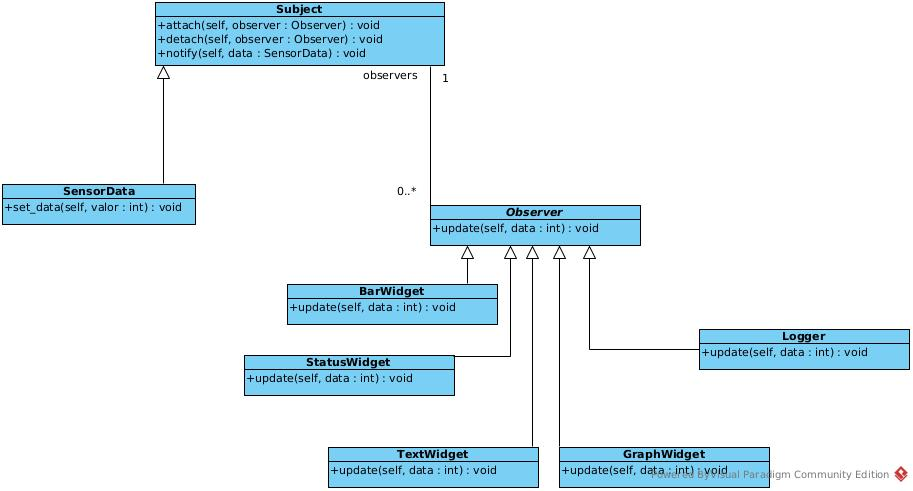
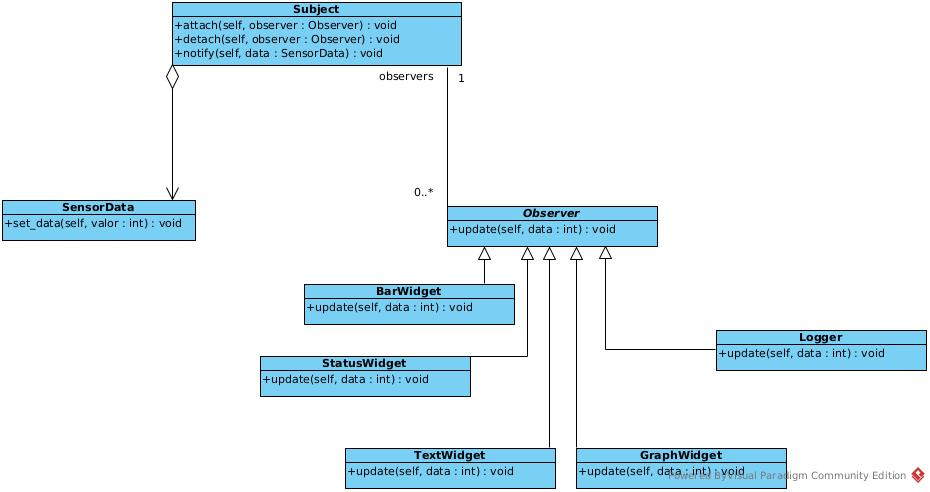
feat: implementar métodos de notificação e gerenciamento de observadores na classe SensorData

Changed region(s): [[0.1533, 0.0, 1.0, 1.0], [0.0, 0.3666, 0.2147, 0.4888], [0.644, 0.6721, 1.0, 0.7637]]

diff --git a/projeto-sistemas/padroes-projeto/observer/ExemploObserver/main.py b/projeto-sistemas/padroes-projeto/observer/ExemploObserver/main.py
@@ -1,20 +1,29 @@
 # main.py
 import tkinter as tk
-from subject import Subject
 from data.simulate_data import simular_dados
 from utils.logger import Logger
 from gui.dashboard import GraphWidget, TextWidget, StatusWidget, BarWidget
 
-# ConcreteSubject com estado real
-class SensorData(Subject):
+
+class SensorData:
     def __init__(self):
-        super().__init__()
+        from subject import Subject
+        self._subject = Subject()
         self._valor = 0
+
+    def attach(self, observer):
+        self._subject.attach(observer)
+
+    def detach(self, observer):
+        self._subject.detach(observer)
+
+    def notify(self):
+        self._subject.notify(self._valor)
 
     def set_data(self, valor):
         self._valor = valor
         print(f"[Sensor] Novo valor: {valor}")
-        self.notify(valor)
+        self.notify()
 
 # Interface principal
 def main():
@@ -35,9 +44,14 @@ def main():
     sensor.attach(text)
     sensor.attach(status)
 
+    # logger também pode ser adicionado aqui se quiser
+    # logger = Logger()
+    # sensor.attach(logger)
+
     simular_dados(sensor)
     root.mainloop()
 
-
 if __name__ == "__main__":
     main()
+
+
